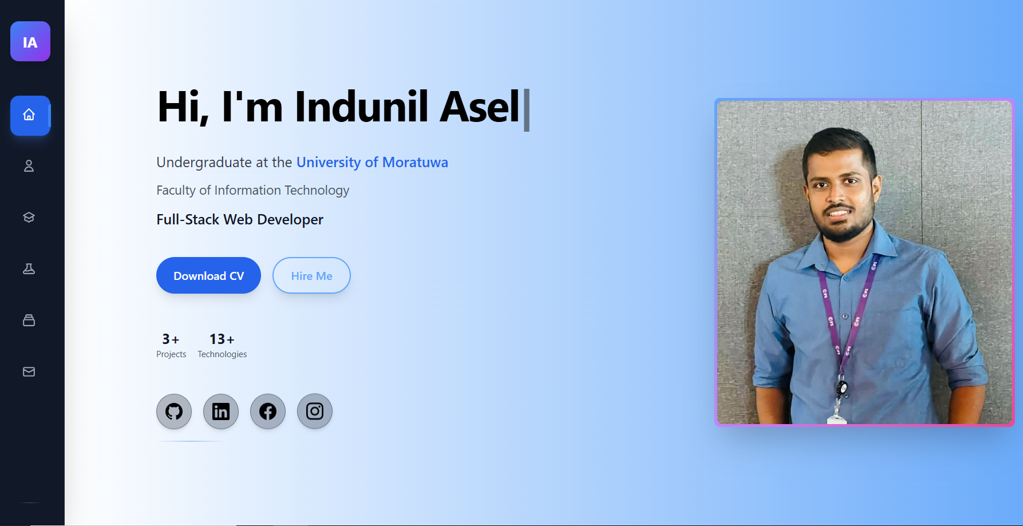
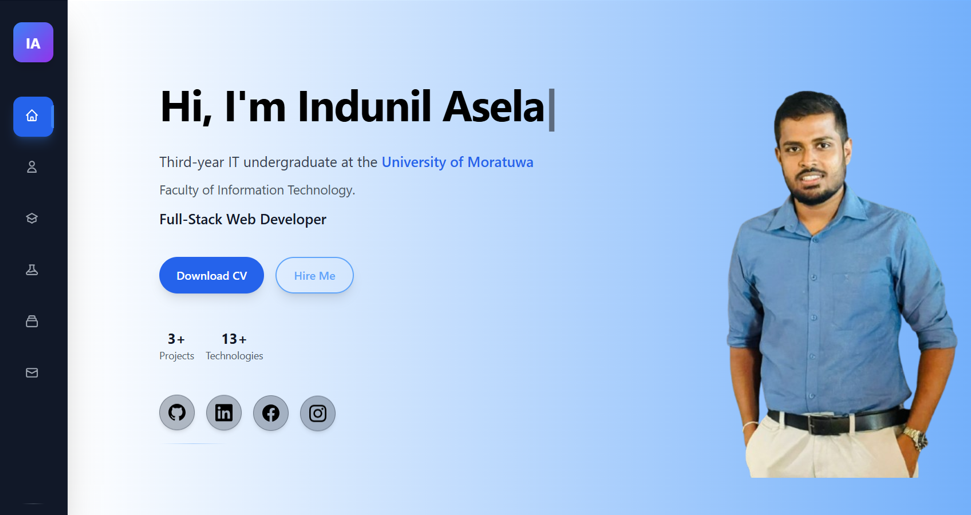
profile image

diff --git a/src/Components/Home/Home.jsx b/src/Components/Home/Home.jsx
@@ -1,5 +1,5 @@
 import React, { useState, useEffect } from "react";
-import profile from "../../assets/profile.jpg"; // Adjust the path as necessary
+import profile from "../../assets/profile1.png"; // Adjust the path as necessary
 
 // Note: Import your profile image like this in your actual component:
 // import avatarImg from "../../assets/profile.jpg";
@@ -108,19 +108,7 @@ const TypewriterName = () => {
   );
 };
 
-// Simple rectangular frame component without animations
-const RectangularFrame = ({ children }) => {
-  return (
-    <div className="relative w-full h-full">
-      {/* Profile Image with rectangular border frame */}
-      <div className="relative z-10 w-full h-full p-1 rounded-lg bg-gradient-to-br from-blue-400 via-purple-400 to-pink-500 shadow-2xl">
-        <div className="w-full h-full rounded-lg overflow-hidden">
-          {children}
-        </div>
-      </div>
-    </div>
-  );
-};
+
 
 // Social Media Icons
 const GitHubIcon = () => (
@@ -224,13 +212,13 @@ const Home = ({ onPageChange }) => {
             {/* Description */}
             <div className="space-y-2 lg:space-y-3">
               <p className="text-sm sm:text-sm md:text-base lg:text-lg xl:text-xl text-gray-700 leading-relaxed hover:text-gray-900 transition-colors duration-300 mobile-text-enhanced">
-                Undergraduate at the{" "}
+                Third-year IT undergraduate at the{" "}
                 <span className="text-blue-600 font-semibold hover:text-blue-700 transition-colors duration-300">
                   University of Moratuwa
                 </span>
               </p>
               <p className="text-sm sm:text-sm md:text-sm lg:text-base xl:text-lg text-gray-600 hover:text-gray-800 transition-colors duration-300 mobile-text-enhanced">
-                Faculty of Information Technology
+                Faculty of Information Technology.
               </p>
               <p className="text-sm sm:text-sm md:text-base lg:text-lg xl:text-xl text-gray-900 font-medium hover:text-blue-700 transition-colors duration-300 mobile-text-enhanced">
                 Full-Stack Web Developer
@@ -322,14 +310,13 @@ const Home = ({ onPageChange }) => {
           <div className={`flex-shrink-0 order-1 lg:order-2 transition-all duration-1000 ease-out ${
             !isLoaded ? 'translate-x-full opacity-0' : 'translate-x-0 opacity-100'
           }`}>
-            <div className="w-56 h-64 sm:w-64 sm:h-72 md:w-72 md:h-80 lg:w-80 lg:h-96 xl:w-96 xl:h-[420px] 2xl:w-[420px] 2xl:h-[460px] mx-auto lg:mx-0">
-              <RectangularFrame>
-                <img 
-                  className="w-full h-full object-cover object-center" 
-                  src={avatarImg} 
-                  alt="Indunil Asela - Full Stack Developer" 
-                />
-              </RectangularFrame>
+            <div className="w-72 h-80 sm:w-80 sm:h-96 md:w-96 md:h-[460px] lg:w-[420px] lg:h-[500px] xl:w-[480px] xl:h-[560px] 2xl:w-[520px] 2xl:h-[600px] mx-auto lg:mx-0">
+              <img 
+                className="w-full h-full object-contain object-center" 
+                src={avatarImg} 
+                alt="Indunil Asela - Full Stack Developer"
+                style={{ backgroundColor: 'transparent' }}
+              />
             </div>
           </div>
         </div>

diff --git a/src/Components/projects/projects.jsx b/src/Components/projects/projects.jsx
@@ -105,32 +105,32 @@ const ProjectCard = ({ project, index, openProjectId, setOpenProjectId }) => {
           // Project Image View
           <div className="text-center">
             <div 
-              className="w-72 h-48 mx-auto mb-4 bg-gradient-to-br from-blue-500 to-purple-600 rounded-lg flex items-center justify-center group-hover:scale-110 transition-transform duration-300 shadow-lg overflow-hidden cursor-pointer"
+              className="w-72 h-56 mx-auto mb-4 bg-white rounded-lg flex items-center justify-center group-hover:scale-105 transition-transform duration-300 shadow-xl overflow-hidden cursor-pointer border-2 border-gray-200 hover:border-blue-400"
               onClick={toggleDetails}
             >
               {project.image === "automeet" ? (
                 <img 
                   src={automeeticon}
                   alt="AutoMeet Project" 
-                  className="w-full h-full object-cover rounded-lg"
+                  className="w-full h-full object-contain p-2"
                 />
               ) : project.image === "iot" ? (
                 <img 
                   src={iotimage}
                   alt="Auto-Off Ironboard IoT Project" 
-                  className="w-full h-full object-cover rounded-lg"
+                  className="w-full h-full object-contain p-2"
                 />
               ) : project.image === "lakpura" ? (
                 <img 
                   src={lakpuraimage}
                   alt="Lakpura E-commerce Project" 
-                  className="w-full h-full object-cover rounded-lg"
+                  className="w-full h-full object-contain p-2"
                 />
               ) : project.image === "portfolio" ? (
                 <img 
                   src={portfolioimage}
                   alt="Portfolio Website Project" 
-                  className="w-full h-full object-cover rounded-lg"
+                  className="w-full h-full object-contain p-2"
                 />
               ) : (
                 <span className="text-6xl">{project.image}</span>
